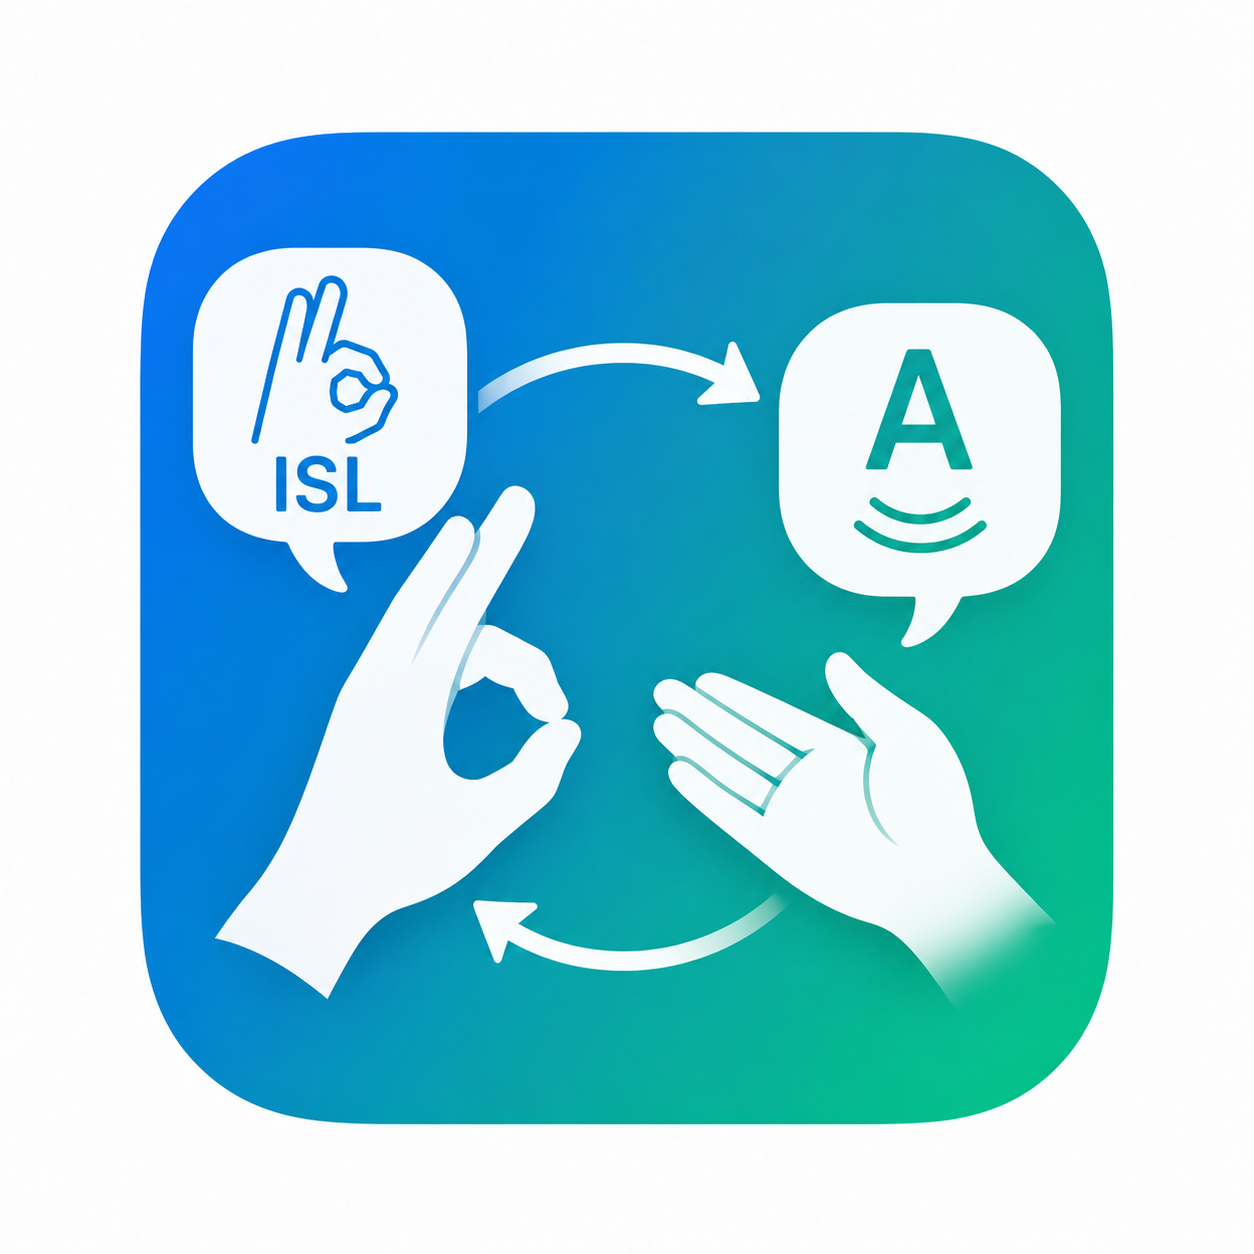
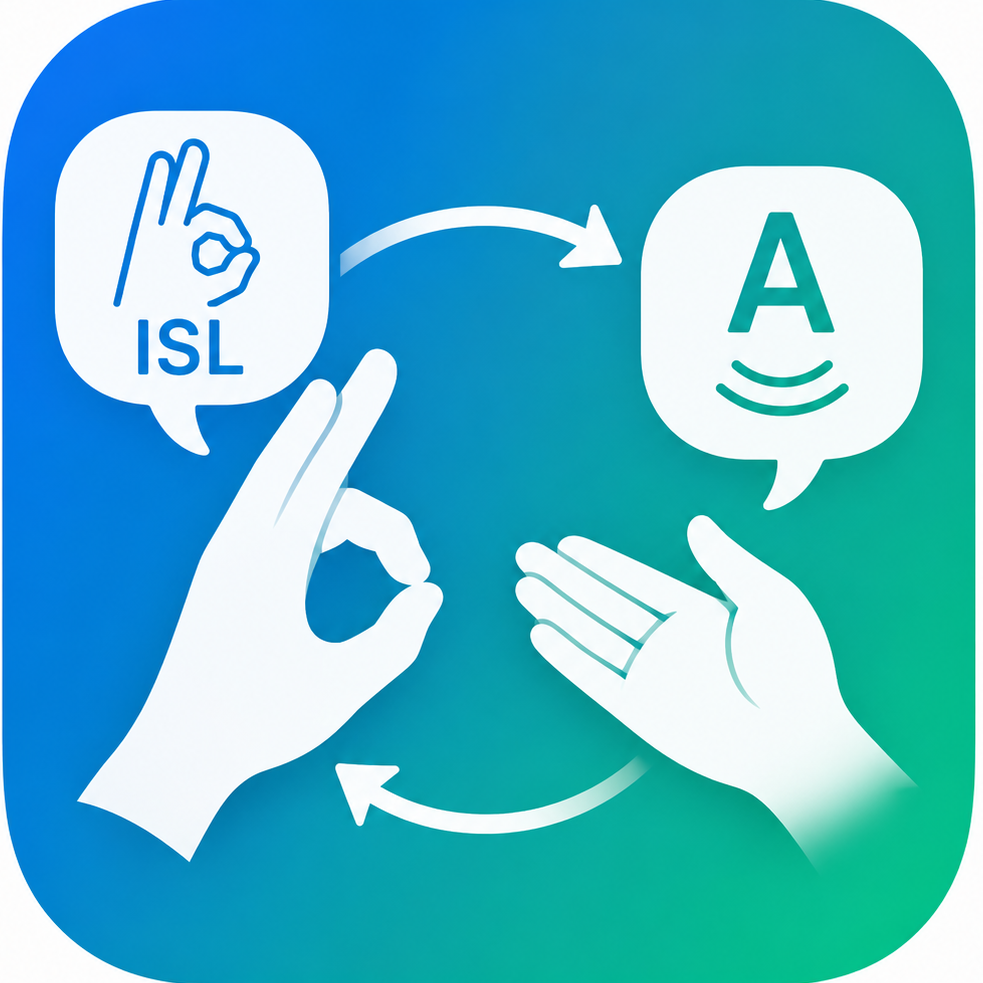
UI changes

diff --git a/lib/main.dart b/lib/main.dart
@@ -154,7 +154,7 @@ class _LanguageSetupScreenState extends State<LanguageSetupScreen> {
   @override
   void initState() {
     super.initState();
-    _controller = VideoPlayerController.asset('assets/welcome_video.mp4')
+    _controller = VideoPlayerController.asset('assets/language_screen.mp4')
       ..initialize().then((_) {
         if (mounted) {
           setState(() {});
@@ -393,18 +393,13 @@ class _HomeScreenState extends State<HomeScreen> {
         centerTitle: true,
         title: const Text('SignScribe'),
         actions: [
-          PopupMenuButton<String>(
-            icon: const Icon(Icons.menu),
-            onSelected: (value) {
-              if (value == 'settings') {
-                Navigator.of(context).push(
-                  MaterialPageRoute(builder: (_) => const SettingsScreen()),
-                );
-              }
+          IconButton(
+            icon: const Icon(Icons.settings),
+            onPressed: () {
+              Navigator.of(context).push(
+                MaterialPageRoute(builder: (_) => const SettingsScreen()),
+              );
             },
-            itemBuilder: (_) => const [
-              PopupMenuItem(value: 'settings', child: Text('Settings'))
-            ],
           ),
         ],
       ),
@@ -455,17 +450,8 @@ class _HomeScreenState extends State<HomeScreen> {
                   SizedBox(
                     width: double.infinity,
                     child: ElevatedButton(
-                      onPressed: _isUploading ? null : _pickVideo,
-                      child: Text(
-                          _isUploading ? 'Uploading…' : 'Upload Video'),
-                    ),
-                  ),
-                  const SizedBox(height: 12),
-                  SizedBox(
-                    width: double.infinity,
-                    child: ElevatedButton(
                       onPressed: _isUploading ? null : _openCamera,
-                      child: const Text('Start Live Call'),
+                      child: const Text('Start Call'),
                     ),
                   ),
                 ],
@@ -797,8 +783,10 @@ class _LiveCallScreenState extends State<LiveCallScreen> {
   late CameraController _cam;
   bool _camReady = false;
   late String _callLanguage;
-  OnDeviceTranslator? _translator;
+  OnDeviceTranslator? _callTranslator;
+  OnDeviceTranslator? _listenTranslator;
   String _playAloudPreference = 'Always';
+  String _appLanguage = 'English';
 
   // ── State machine ─────────────────────────────────────────────────────────
   _LiveCallState _state = _LiveCallState.idle;
@@ -823,68 +811,69 @@ class _LiveCallScreenState extends State<LiveCallScreen> {
     _initCamera();
     _initTts();
     _initStt();
-    _loadLanguage();
-    _initCallTranslator();               // ← replaces _loadLanguage()
+    _initLanguages();
+  }
+
+  Future<void> _initLanguages() async {
+    await _loadLanguage();       // sets _appLanguage first
+    await _initCallTranslator(); // then uses _appLanguage
   }
 
   Future<void> _loadLanguage() async {
     final prefs = await SharedPreferences.getInstance();
-    final language = prefs.getString('language') ?? 'English';
+    final appLanguage = prefs.getString('language') ?? 'English';
     final playAloud = prefs.getString('play_aloud') ?? 'Always';
-    if (mounted) setState(() => _callLanguage = language);
-
-    // Only create translator if not English
-    if (language != 'English') {
-      const mlKitLanguageMap = {
-        'Hindi':     TranslateLanguage.hindi,
-        'Tamil':     TranslateLanguage.tamil,
-        'Telugu':    TranslateLanguage.telugu,
-        'Kannada':   TranslateLanguage.kannada,
-        'Bengali':   TranslateLanguage.bengali,
-        'Marathi':   TranslateLanguage.marathi,
-        'Gujarati':  TranslateLanguage.gujarati,
-      };
-
-      final targetLanguage = mlKitLanguageMap[language];
-      if (targetLanguage != null) {
-        _translator = OnDeviceTranslator(
-          sourceLanguage: TranslateLanguage.english,
-          targetLanguage: targetLanguage,
-        );
-
-        // Download model in background if not already present
-        final modelManager = OnDeviceTranslatorModelManager();
-        final downloaded = await modelManager.isModelDownloaded(targetLanguage.bcpCode);
-        if (!downloaded) {
-          await modelManager.downloadModel(targetLanguage.bcpCode);
-        }
-      }
+    if (mounted) {
+      setState(() {
+        // _callLanguage stays as widget.callLanguage — DO NOT overwrite it
+        _appLanguage = appLanguage;
+        _playAloudPreference = playAloud;
+      });
     }
   }
 
   Future<void> _initCallTranslator() async {
     const mlKitLanguageMap = {
-      'Hindi':     TranslateLanguage.hindi,
-      'Tamil':     TranslateLanguage.tamil,
-      'Telugu':    TranslateLanguage.telugu,
-      'Kannada':   TranslateLanguage.kannada,
-      'Bengali':   TranslateLanguage.bengali,
-      'Marathi':   TranslateLanguage.marathi,
-      'Gujarati':  TranslateLanguage.gujarati,
+      'Hindi':    TranslateLanguage.hindi,
+      'Tamil':    TranslateLanguage.tamil,
+      'Telugu':   TranslateLanguage.telugu,
+      'Kannada':  TranslateLanguage.kannada,
+      'Bengali':  TranslateLanguage.bengali,
+      'Marathi':  TranslateLanguage.marathi,
+      'Gujarati': TranslateLanguage.gujarati,
     };
 
-    final targetLanguage = mlKitLanguageMap[_callLanguage];
-    if (targetLanguage != null) {
-      _translator = OnDeviceTranslator(
+    final modelManager = OnDeviceTranslatorModelManager();
+
+    // ── Translator 1: English → call language (sign → sentence) ──────────
+    final callTarget = mlKitLanguageMap[_callLanguage];
+    if (callTarget != null) {
+      _callTranslator = OnDeviceTranslator(
         sourceLanguage: TranslateLanguage.english,
-        targetLanguage: targetLanguage,
+        targetLanguage: callTarget,
       );
-      final modelManager = OnDeviceTranslatorModelManager();
-      final downloaded = await modelManager.isModelDownloaded(
-          targetLanguage.bcpCode);
-      if (!downloaded) {
-        await modelManager.downloadModel(targetLanguage.bcpCode);
-      }
+      final downloaded = await modelManager.isModelDownloaded(callTarget.bcpCode);
+      if (!downloaded) await modelManager.downloadModel(callTarget.bcpCode);
+    }
+
+    // ── Translator 2: call language → app language (speech → text) ───────
+    // Only needed if call language != app language and app language != English
+    final appTarget = mlKitLanguageMap[_appLanguage];
+    final callSource = mlKitLanguageMap[_callLanguage];
+
+    if (callSource != null && appTarget != null && _callLanguage != _appLanguage) {
+      _listenTranslator = OnDeviceTranslator(
+        sourceLanguage: callSource,
+        targetLanguage: appTarget,
+      );
+      final downloaded = await modelManager.isModelDownloaded(appTarget.bcpCode);
+      if (!downloaded) await modelManager.downloadModel(appTarget.bcpCode);
+    } else if (_callLanguage != 'English' && _appLanguage == 'English' && callSource != null) {
+      // call language → English
+      _listenTranslator = OnDeviceTranslator(
+        sourceLanguage: callSource,
+        targetLanguage: TranslateLanguage.english,
+      );
     }
   }
 
@@ -941,9 +930,13 @@ class _LiveCallScreenState extends State<LiveCallScreen> {
 
       // Translate if call language is not English
       String displayResult = englishResult;
-      if (_translator != null) {
-        displayResult = await _translator!.translateText(englishResult);
+      if (_callTranslator != null) {
+        displayResult = await _callTranslator!.translateText(englishResult);
       }
+
+      final prefs = await SharedPreferences.getInstance();
+      final playAloud = prefs.getString('play_aloud') ?? 'Always';
+      if (mounted) setState(() => _playAloudPreference = playAloud);
 
       setState(() {
         _translation = displayResult;
@@ -1031,22 +1024,26 @@ class _LiveCallScreenState extends State<LiveCallScreen> {
     });
 
     const sttLocaleMap = {
-      'Hindi':     'hi-IN',
-      'Tamil':     'ta-IN',
-      'Telugu':    'te-IN',
-      'Kannada':   'kn-IN',
-      'Malayalam': 'ml-IN',
-      'Bengali':   'bn-IN',
-      'Marathi':   'mr-IN',
-      'Gujarati':  'gu-IN',
-      'Punjabi':   'pa-IN',
+      'Hindi': 'hi-IN', 'Tamil': 'ta-IN', 'Telugu': 'te-IN',
+      'Kannada': 'kn-IN', 'Bengali': 'bn-IN', 'Marathi': 'mr-IN',
+      'Gujarati': 'gu-IN',
     };
 
+    // STT listens in call language
     final locale = sttLocaleMap[_callLanguage] ?? 'en-US';
 
     await _stt.listen(
-      onResult: (result) {
-        if (mounted) setState(() => _listenedText = result.recognizedWords);
+      onResult: (result) async {
+        final spokenText = result.recognizedWords;
+        if (spokenText.isEmpty) return;
+
+        // Translate to app language if different from call language
+        String displayText = spokenText;
+        if (_listenTranslator != null && _callLanguage != _appLanguage) {
+          displayText = await _listenTranslator!.translateText(spokenText);
+        }
+
+        if (mounted) setState(() => _listenedText = displayText);
       },
       listenFor: const Duration(seconds: 30),
       pauseFor: const Duration(seconds: 5),
@@ -1062,7 +1059,8 @@ class _LiveCallScreenState extends State<LiveCallScreen> {
   @override
   void dispose() {
     _cam.dispose();
-    _translator?.close();
+    _callTranslator?.close();
+    _listenTranslator?.close();
     _tts.stop();
     _stt.stop();
     super.dispose();
@@ -1182,7 +1180,7 @@ class _LiveCallScreenState extends State<LiveCallScreen> {
         return const Text(
           'Recording…',
           style: TextStyle(color: Colors.redAccent, fontSize: 18),
-          textAlign: TextAlign.center,
+          textAlign: TextAlign.bottom,
         );
 
       case _LiveCallState.processing:
@@ -1200,38 +1198,40 @@ class _LiveCallScreenState extends State<LiveCallScreen> {
         return Column(
           mainAxisSize: MainAxisSize.min,
           children: [
-            Container(
-              padding: const EdgeInsets.all(20),
-              decoration: BoxDecoration(
-                color: Colors.white.withOpacity(0.1),
-                borderRadius: BorderRadius.circular(20),
-                border: Border.all(color: Colors.white24),
-              ),
-              child: Column(
-                children: [
-                  Text(
-                    _translation ?? '',
-                    style: const TextStyle(
-                        color: Colors.white, fontSize: 20, height: 1.4),
-                    textAlign: TextAlign.center,
-                  ),
-
-                  // Show Play Aloud only when preference is Ask
-                  if (_playAloudPreference == 'Ask') ...[
-                    const SizedBox(height: 16),
-                    _TextButton(
-                      onTap: _playAloud,
-                      label: 'Play Aloud',
-                      color: Colors.white24,
-                      textColor: Colors.white,
+            // ── Only show translation box if there is a translation ──────
+            if (_translation != null && _translation!.isNotEmpty) ...[
+              Container(
+                padding: const EdgeInsets.all(20),
+                decoration: BoxDecoration(
+                  color: Colors.white.withOpacity(0.1),
+                  borderRadius: BorderRadius.circular(20),
+                  border: Border.all(color: Colors.white24),
+                ),
+                child: Column(
+                  children: [
+                    Text(
+                      _translation!,
+                      style: const TextStyle(
+                          color: Colors.white, fontSize: 20, height: 1.4),
+                      textAlign: TextAlign.center,
                     ),
+                    if (_playAloudPreference == 'Ask') ...[
+                      const SizedBox(height: 16),
+                      _TextButton(
+                        onTap: _playAloud,
+                        label: 'Play Aloud',
+                        color: Colors.white24,
+                        textColor: Colors.white,
+                      ),
+                    ],
                   ],
-                ],
+                ),
               ),
-            ),
-
-            if (_listenedText != null && _listenedText!.isNotEmpty) ...[
               const SizedBox(height: 16),
+            ],
+
+            // ── Listened text ─────────────────────────────────────────────
+            if (_listenedText != null && _listenedText!.isNotEmpty)
               Container(
                 padding: const EdgeInsets.all(16),
                 decoration: BoxDecoration(
@@ -1239,19 +1239,21 @@ class _LiveCallScreenState extends State<LiveCallScreen> {
                   borderRadius: BorderRadius.circular(16),
                   border: Border.all(color: Colors.white12),
                 ),
-                child: Column(
-                  children: [
-                    const SizedBox(height: 6),
-                    Text(
-                      _listenedText!,
-                      style: const TextStyle(
-                          color: Colors.white70, fontSize: 16),
-                      textAlign: TextAlign.center,
-                    ),
-                  ],
+                child: Text(
+                  _listenedText!,
+                  style: const TextStyle(color: Colors.white70, fontSize: 16),
+                  textAlign: TextAlign.center,
                 ),
               ),
-            ],
+
+            // ── Placeholder when nothing to show yet ──────────────────────
+            if ((_translation == null || _translation!.isEmpty) &&
+                (_listenedText == null || _listenedText!.isEmpty))
+              const Text(
+                'Start signing or listen to the other person',
+                style: TextStyle(color: Colors.white70, fontSize: 16),
+                textAlign: TextAlign.center,
+              ),
           ],
         );
 